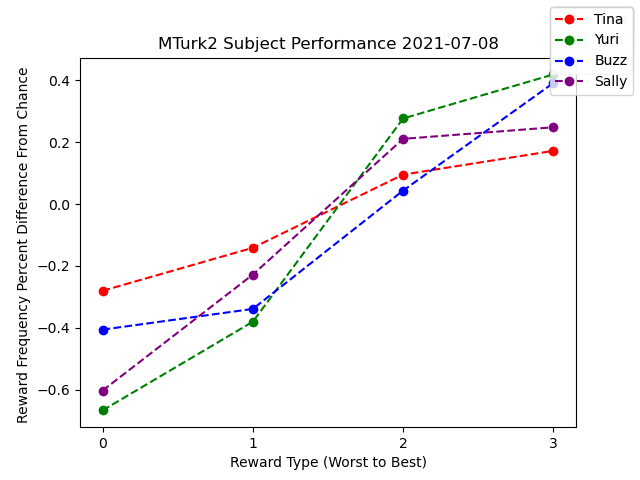
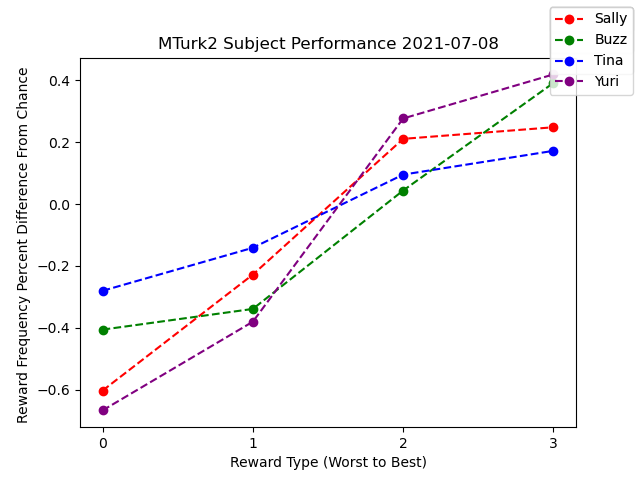
add handling of uneven date axis in historical plots

diff --git a/mturk2_code/analysis/session_analysis.py b/mturk2_code/analysis/session_analysis.py
@@ -186,8 +186,10 @@ def handler(subject_data: list, historical_data: Dict[str, pd.DataFrame]):
     colors = ['red', 'green', 'blue', 'purple']
     fig1, ax1 = plt.subplots()
     fig2, ax2 = plt.subplots()
-    for i, s in enumerate(subject_data):
+    exp_name_set = copy.deepcopy(SUBJECT_NAMES)
+    for i, s in enumerate(sorted(subject_data)):
         analysis, data = analyze_session(s[0], s[1])
+        exp_name_set.remove(data.monkey_name)
         sess_duration = (data.trial_time_milliseconds[-1] / 1e3) / (60 * 60)
         new_row = pd.DataFrame.from_dict(
             {9999999: [data.date,
@@ -233,9 +235,13 @@ def handler(subject_data: list, historical_data: Dict[str, pd.DataFrame]):
         ax2.set_ylabel("Probability of Choosing Best Reward on Each Trial")
         ax2.set_title("MTurk2 Historical Performance " + str(data.date))
         fig2.legend()
+    for unused_name in exp_name_set:
+        new_row = pd.Series()
+        new_row['date'] = str(date)
+        historical_data[unused_name] = historical_data[unused_name].append(new_row, ignore_index=True)
     if len(subject_data) > 0:
-        fig1.savefig('../saved_data/figures/' + str(data.date) + '_performance_vs_chance_mturk2.png')
-        fig2.savefig('../saved_data/figures/' + str(data.date) + '_historical_mturk2.png')
+        fig1.savefig('../saved_data/figures/' + str(date) + '_performance_vs_chance_mturk2.png')
+        fig2.savefig('../saved_data/figures/' + str(date) + '_historical_mturk2.png')
     return out, historical_data
 
 
